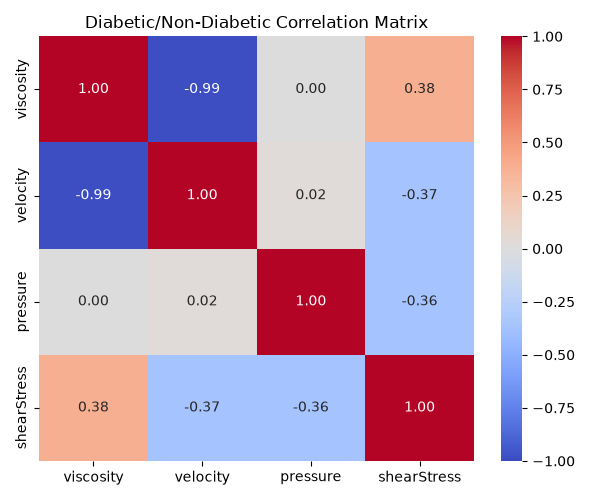
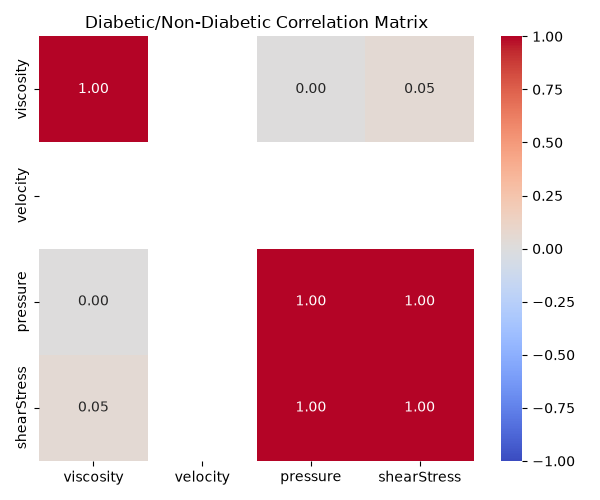
adjustments

diff --git a/regressionrunner.py b/regressionrunner.py
@@ -5,12 +5,12 @@ import seaborn as sns
 from statsmodels.formula.api import ols
 
 networks = ['1', '2']
-diabetic_statuses = [0, 1]
+diabeticstatuses = [0, 1]
 
-file_name = "ptresults.csv"
+file = "ptresults.csv"
 
 #put csv into dataframe (df)
-df = pd.read_csv(file_name)
+df = pd.read_csv(file)
 
 print(df.head())
 
@@ -31,11 +31,11 @@ if len(networks) == 1: #line recommended to add
     axes = axes.reshape(1, -1)
 
 for i, net in enumerate(networks): #enumerate() gives position number and network value
-    sub_net = df[df['network'] == net] #filters dataframe to match network
-    sub_net = sub_net.copy() #recommended to reduce errors
-    sub_net['diabetic'] = sub_net['diabetic'].map({0: 'Non-Diabetic', 1: 'Diabetic'})
+    subnet = df[df['network'] == net] #filters dataframe to match network
+    subnet = subnet.copy() #recommended to reduce errors
+    subnet['diabetic'] = subnet['diabetic'].map({0: 'Non-Diabetic', 1: 'Diabetic'})
     for j, dv in enumerate(dvs): #loop to give column position and actual name of dependent variables
-        sns.lineplot(data=sub_net, x='viscosity', y=dv, hue='diabetic', #palette keys
+        sns.lineplot(data=subnet, x='viscosity', y=dv, hue='diabetic', #palette keys
         marker='o', ax=axes[i, j], palette={'Non-Diabetic': 'tab:blue', 'Diabetic': 'tab:red'}) #draws line chart for variables
         axes[i, j].set_title(f'Network {net}: {dv}') #labels chart panel
         axes[i, j].legend(title='Diabetic Retinopathy') #adds legend box for blue + red definitions
@@ -60,14 +60,14 @@ for net in networks: #loop through each network
 
 #summary table for significance/visuals
 
-summary_rows = [] #empty list to hold 1 dictionary/network
+summaryrows = [] #empty list to hold 1 dictionary/network
 for net in networks: #loops through every network/output variable
     for dv in dvs:
         model = results[net][dv]
         term = [t for t in model.params.index if 'viscosity:C(diabetic)' in t] #lists all variable names in fitted model
         if term:
             t = term[0]
-            summary_rows.append({ #adding the matching names to folder
+            summaryrows.append({ #adding the matching names to folder
                 'network': net,
                 'output': dv,
                 'interaction_coefficient': round(model.params[t], 5),
@@ -75,6 +75,6 @@ for net in networks: #loops through every network/output variable
                 'significant_at_alpha_of_0.05?': model.pvalues[t] < 0.05,
             })
 
-summary_df = pd.DataFrame(summary_rows) #converts dictionaries to a table
+summarydf = pd.DataFrame(summaryrows) #converts dictionaries to a table
 print(f"\n\nviscosity x diabetic interaction\n")
-print(summary_df.to_string(index=False)) #prints a header then summary table
+print(summarydf.to_string(index=False)) #prints a header then summary table

diff --git a/heatmap.py b/heatmap.py
@@ -4,24 +4,24 @@ import pandas as pd             #holds data in a table
 import matplotlib.pyplot as plt #draws the actual charts
 import seaborn as sns           #makes matplotlib charts easier to build
 
-file_name = "maxresults.csv"
+file = "ptresults.csv"
 
 #put csv into dataframe (df)
-df = pd.read_csv(file_name)
+df = pd.read_csv(file)
 
 #view first 5 rows
 print(df.head())
 #creates the heatmap
 
-corr_vars = ['viscosity', 'velocity', 'pressure', 'shearStress']  #columns to compare
+correlation = ['viscosity', 'velocity', 'pressure', 'shearStress']  #columns to compare
 
-corr_matrix = df[corr_vars].corr()  #calculates correlation between every pair of these 4 columns
+correlationmatrix = df[correlation].corr()  #calculates correlation between every pair of these 4 columns
 #4x4 matrix filled with numbers betweej 0 and 1
 
 plt.figure(figsize=(6, 5)) #start a set-sized figure
 
 sns.heatmap(
-    corr_matrix,
+    correlationmatrix,
     annot=True,        #print the correlation inside each cell
     cmap='coolwarm',    #blue = neg, red = pos
     vmin=-1, vmax=1,     #set the color scale 
@@ -36,17 +36,17 @@ plt.show()                                #opens chart
 #helpful splitting to prevent data accuracy via less generic correlations
 
 fig, axes = plt.subplots(1, 2, figsize=(13, 5))   #1 row, 2 charts
-group_labels = {0: 'Non-Diabetic', 1: 'Diabetic'}  #naming charts
+grouplabels = {0: 'Non-Diabetic', 1: 'Diabetic'}  #naming charts
 
 for ax, status in zip(axes, [0, 1]): #non-diabetic before diabetic, iterates through each section
-    subset = df[df['diabetic'] == status][corr_vars]  #keep only rows matching this group
+    subset = df[df['diabetic'] == status][correlation]  #keep only rows matching this group
     sns.heatmap(
         subset.corr(), #correlation matrix for subgroup
         annot=True, cmap='coolwarm',
         vmin=-1, vmax=1, center=0, fmt='.2f',
         ax=ax, #draw value into chart
     )
-    ax.set_title(group_labels[status])#label chart
+    ax.set_title(grouplabels[status])#label chart
 
 plt.tight_layout()
 plt.savefig('correlation_by_group.png')

diff --git a/mancova.py b/mancova.py
@@ -6,10 +6,10 @@ from statsmodels.multivariate.manova import MANOVA  #runs the MANOVA math
 networks = ['1', '2']
 diabetic_statuses = [0, 1]
 
-file_name = "ptresults.csv"
+file = "ptresults.csv"
 
 #put csv into dataframe (df)
-df = pd.read_csv(file_name)
+df = pd.read_csv(file)
 networks = sorted(df['network'].unique()) #taking the networks, sorted
 
 #view first 5 rows
@@ -20,13 +20,13 @@ results = {}  #stores results
 for net in networks:                              #loop through network 1, then network 2
     sub = df[df['network'] == net]                 #keep only network's rows
 
-    print(f"NETWORK {net}: Healthy vs Diabetic, across viscosity")
+    print(f"NETWORK {net}: Healthy vs Diabetic, across viscosity")  
 
-    mancova_model = MANOVA.from_formula(
+    mancova = MANOVA.from_formula(
         'pressure + shearStress ~ viscosity * C(diabetic)',
         data=sub,
     )
-    mancova_results = mancova_model.mv_test()      #runs test
-    results[net] = mancova_results                  #saves for later
+    results = mancova.mv_test()      #runs test
+    results[net] = results                  #saves for later
 
-    print(mancova_results)
+    print(results)
